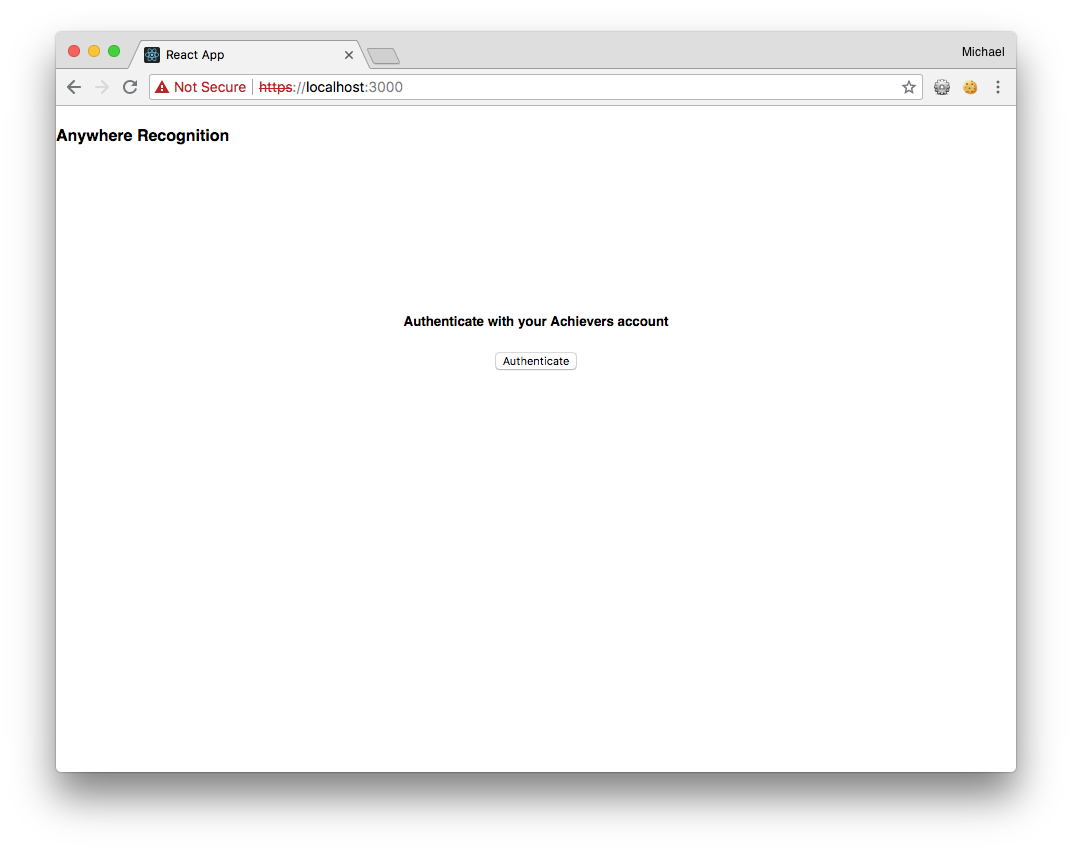
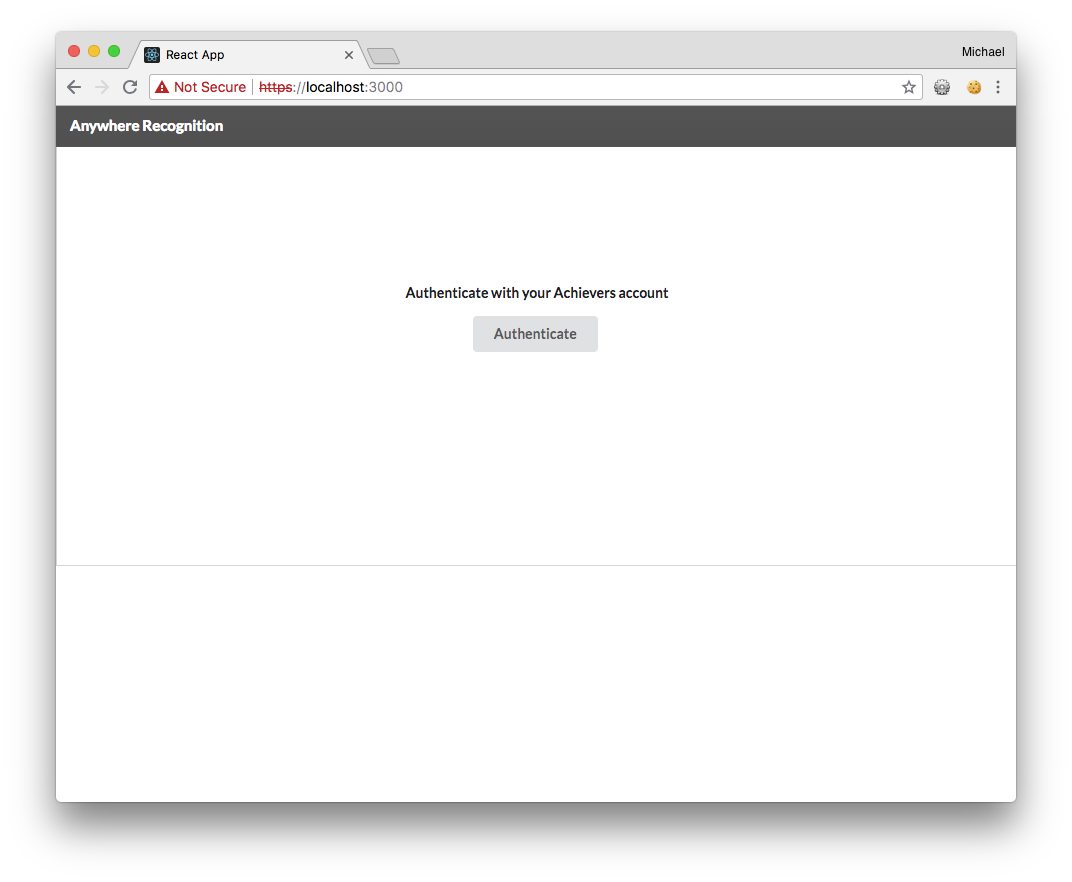
Minor tweaks and fixes.

Changed region(s): [[0.0308, 0.0305, 0.9543, 0.1831], [0.0616, 0.885, 0.9235, 0.9155], [0.3694, 0.3052, 0.6157, 0.4272]]

diff --git a/src/App.js b/src/App.js
@@ -4,7 +4,6 @@ import Login from './Login';
 import Main from './Main';
 import cookie from 'react-cookies';
 import 'semantic-ui-css/semantic.min.css';
-import { Header, Button, Segment } from 'semantic-ui-react'
 
 class App extends Component {
   constructor(props) {

diff --git a/src/Login.js b/src/Login.js
@@ -34,7 +34,7 @@ class Login extends Component {
     const authParams = {
       response_type: 'token',
       client_id: clientID,
-      scope: ['read'],
+      scope: 'write read',
       state: Math.random(),
       nonce: 'test',
     }

diff --git a/src/Main.js b/src/Main.js
@@ -45,7 +45,6 @@ class Main extends Component {
         <Form>
           <Recipients />
           <Reason />
-          <Modules />
           <Modules modules={modules} />
           <Button color='green' floated='right'>
             Post

diff --git a/tutorial/step3.md b/tutorial/step3.md
@@ -76,7 +76,7 @@ and update the `render()` function to the following:
 
 If you check your browser you should see something like the following:
 
-![step1a](screenshots/step3a.png)
+![step3a](screenshots/step3a.png)
 
 Clicking on the button doesn't do anything though so let's fix that.
 
@@ -112,7 +112,7 @@ And finally add a `constructor` and a method named `onLoginClick`:
 +    const authParams = {
 +      response_type: 'token',
 +      client_id: clientID,
-+      scope: ['read'],
++      scope: ['read write'],
 +      state: Math.random(),
 +      nonce: 'test',
 +    }

diff --git a/tutorial/step5.md b/tutorial/step5.md
@@ -26,12 +26,12 @@ import './Main.css';
 class Main extends Component {
   render() {
     return (
-      <div className="anywhereRecognition">
+      <div className='anywhereRecognition'>
         <Form>
           <Recipients />
           <Reason />
           <Modules />
-          <Button color="green" floated="right">
+          <Button color='green' floated='right'>
             Post
           </Button>
         </Form>

diff --git a/README.md b/README.md
@@ -1,4 +1,10 @@
 # React Powered Achievers API App tutorial
 
-Follow the steps in `/tutorial`.
+The tutorial is located in `/tutorial`.
+
+Steps to get this running:
+
+1. Install the dependecies with `yarn install`
+2. Copy `env.sample` to `.env` and sensibly set <yoursubdomain> and <yourclientid>
+3. Run `yarn start`
 
